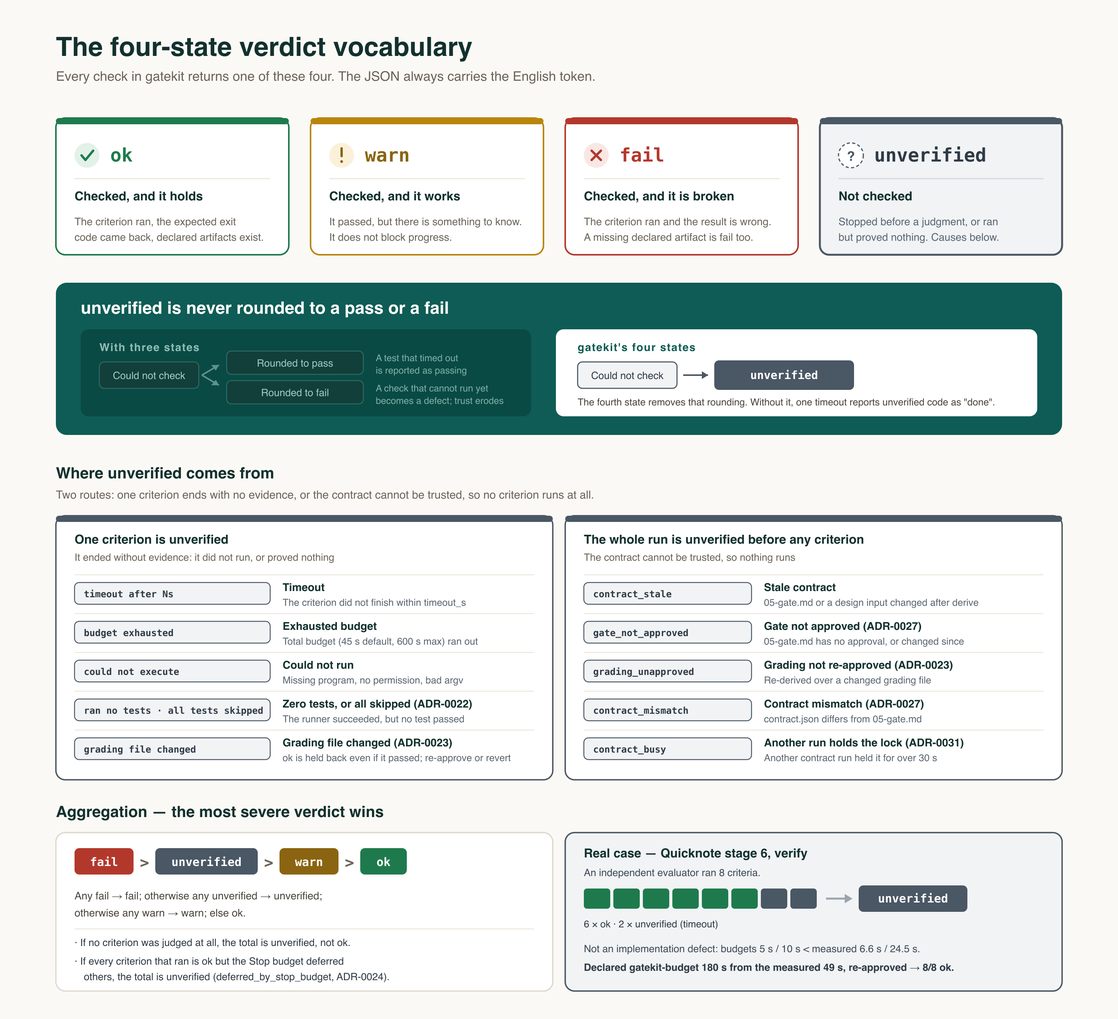
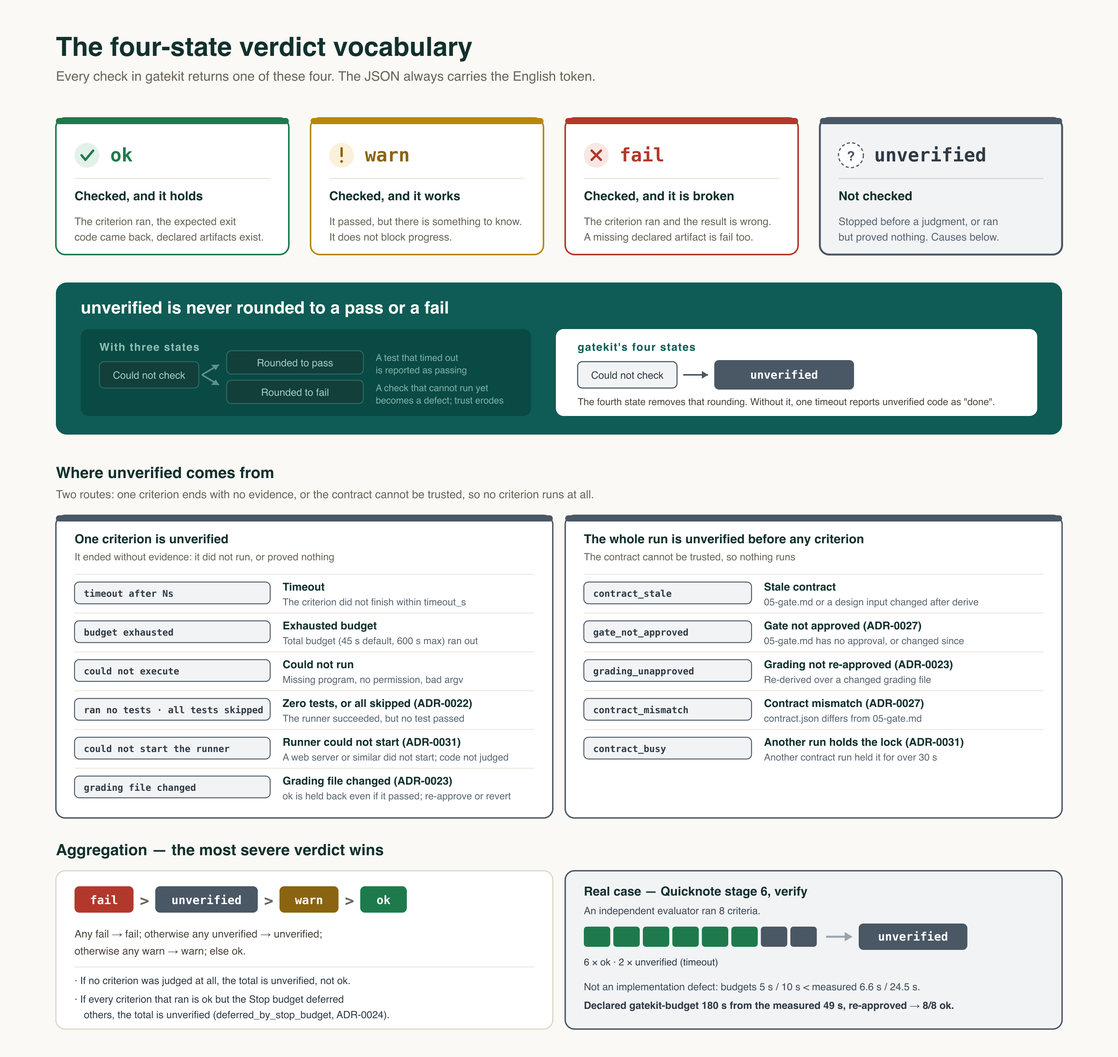
Manual: catch the overview chapters up with the code (ko + en) (#28)
ADRs that changed behaviour updated 07/08/10 but not the overview
chapters, which still described the 2026-09-10 design:
- rule (a) needs a gatekit spec file in spec/, not just the folder (ADR-0036)
- write_scope is enforced only in worker sessions; under the default host
  mode it is prompt guidance and the gates judge the result (ADR-0013)
- retry limits: 3 consecutive failures in a job, 2 identical failures on any
  path, a new jobs start refuses 2 carried failures; host fixes and re-runs
  jobs complete (ADR-0014, ADR-0021)
- only config.json and eval/** of the state dir are writable before approval
  (ADR-0027 rule (c) runs first)
- contract_busy documented in 07 and 10 (ADR-0031)
- design has no question budget; it limits itself to one question
- the Stop gate runs only while build/verify is the active pipeline, turn
  tier during build, stands down after a settled verdict (ADR-0024/0032);
  approval does not arm it
- 03-concepts and the verdicts diagram add the runner-start cause (ADR-0031)

Changed region(s): [[0.0312, 0.0312, 0.9688, 0.9688], [0.5, 0.8125, 0.9375, 0.9688]]

diff --git a/docs/manual/04-pipeline.md b/docs/manual/04-pipeline.md
@@ -68,10 +68,10 @@
 | 0 | `/gatekit:discover` | 아무것도 없어도 된다. 자유 대화 | `00-discovery.md` | `spec validate`가 확정 verdict `eliminate`/`reuse`를 `pain_verdict_blocks`로 차단. 선택 단계 |
 | 1 | `/gatekit:interview` | discovery가 고른 개선과제(있으면), 기존 레포 | `01-prd.md`, `03-architecture.md` | 자유 대화 + 도메인 리서치(`WebSearch`)로 기능을 제안, 사용자가 쳐낸다 |
 | 2 | `/gatekit:mockup` | Figma URL, HTML, 스크린샷, 또는 디자인 프리셋 | `02-screens.md`, `tokens.json`, 확정된 프로토타입 | 프로토타입을 사용자가 확정해야 `prototype_required`가 풀린다 |
-| 2b | `/gatekit:design` | Figma URL, 스크린샷, HTML, 라이브 사이트 URL, 프리셋 이름, 사용자 패턴 파일 | `02-design.md`, `tokens.json`(공유), 원장 gap 행 | question 게이트. `spec/tokens.json`이 있으면 `tasks`가 스타일 관련 작업에 tokens 게이트를 기본 추가 |
+| 2b | `/gatekit:design` | Figma URL, 스크린샷, HTML, 라이브 사이트 URL, 프리셋 이름, 사용자 패턴 파일 | `02-design.md`, `tokens.json`(공유), 원장 gap 행 | question 게이트는 여기서 세기만 한다. 예산은 `interview`에만 걸린다. `/gatekit:design`은 자기 지시로 `AskUserQuestion`을 최대 1회만 한다. `spec/tokens.json`이 있으면 `tasks`가 스타일 관련 작업에 tokens 게이트를 기본 추가 |
 | 3 | `/gatekit:tasks` | `01`, `02`, `02-design`, `03`, 실제 레포 구조 | `04-tasks.md` | `02-screens.md`에 프로토타입 확정 기록이 없으면 실행 거부 |
 | 4 | `/gatekit:gate` | `01`의 수용 기준, `04`의 작업 | `05-gate.md`, `contract.json`, 승인 | 승인이 쓰기 게이트를 연다 |
-| 5 | `/gatekit:build` | `04-tasks.md`, 승인된 `05-gate.md` | 잡 디렉터리, `PROGRESS.md` | write 게이트가 `write_scope` 강제. UI 작업은 스크린샷 산출물 요구. `build.execution`이 `host`(기본)면 이 세션이 직접 구현하고, `worker`면 태스크마다 워커를 스폰한다(ADR-0013) |
+| 5 | `/gatekit:build` | `04-tasks.md`, 승인된 `05-gate.md` | 잡 디렉터리, `PROGRESS.md` | `build.execution`이 `host`(기본)면 이 세션이 직접 구현하고, `write_scope`는 각 태스크 프롬프트의 안내일 뿐 기계적으로 강제하는 것이 없다. 결과는 여전히 태스크 게이트와 Stop 게이트가 판정한다. 워커 세션(`build.execution: worker`, `--backend`, 또는 워커에 넘긴 라운드)에서는 write 게이트가 `write_scope`를 강제한다(ADR-0013). UI 작업은 스크린샷 산출물 요구 |
 | 6 | `/gatekit:verify` | `contract.json`, `05-gate.md` | 판정표(코드 기준 + `-visual`), `PROGRESS.md` 마지막 검증 | spawn 게이트가 평가자 범위 검사, stop 게이트가 계약 실행 |
 
 `doctor`와 `setup`은 이 순서에 속하지 않는다. `setup`은 프로젝트 최초 1회, `doctor`는 문제가 의심될 때 언제든 실행한다.
@@ -82,26 +82,26 @@
 
 ### 1단계 이전
 
-`spec/` 디렉터리가 아직 없으면 쓰기 게이트는 아무것도 막지 않는다. 규칙 (a)는 `spec/`이 존재할 때만 발동한다.
+`spec/`에 gatekit 스펙 파일이 하나도 없으면 쓰기 게이트 규칙 (a)는 아무것도 막지 않는다. 규칙 (c) 보호 상태만 적용된다. RSpec 프로젝트의 `spec/`이나 빈 `spec/`은 치지 않는다. 규칙 (a)는 `spec/`에 `00-discovery.md`나 `01-prd.md` 같은 gatekit 스펙 파일이 하나라도 생기면 발동한다(ADR-0036).
 
 ### 1~3단계 중
 
-`spec/`이 생겼고 `05-gate.md`가 승인되지 않았으므로, 쓰기 게이트가 소스 파일 수정을 거부한다. `spec/**`, `.gatekit/**`, `docs/**`, `README*`, 루트의 `*.md`만 쓸 수 있다. 이 허용 목록이 없으면 게이트를 열어줄 스펙 자체를 쓸 수 없다.
+`spec/`에 gatekit 스펙 파일이 생겼고 `05-gate.md`가 승인되지 않았으므로, 쓰기 게이트가 소스 파일 수정을 거부한다. `spec/**`, `.gatekit/**`, `docs/**`, `README*`, 루트의 `*.md`만 쓸 수 있다. 규칙 (c)를 먼저 보므로 `.gatekit/**` 중에서는 `config.json`과 `eval/**`만 쓸 수 있다. 이 허용 목록이 없으면 게이트를 열어줄 스펙 자체를 쓸 수 없다.
 
 ### 4단계 승인 시점
 
-사용자가 `05-gate.md`를 읽고 승인하면 해시가 고정된다. 그 순간부터 쓰기 게이트 규칙 (a)가 통과되어 소스 파일을 쓸 수 있다. 동시에 Stop 게이트가 이 계약을 실행 대상으로 삼는다.
+사용자가 `05-gate.md`를 읽고 승인하면 해시가 고정된다. 그 순간부터 쓰기 게이트 규칙 (a)가 통과되어 소스 파일을 쓸 수 있다. 승인이 Stop 게이트를 무장시키지는 않는다. 그것은 `/gatekit:build`나 `/gatekit:verify`가 활성 파이프라인이 될 때만 일어난다(아래).
 
 ### 5단계 중
 
-워커 세션에는 `GATEKIT_TASK_ID`가 설정되어 있고, 쓰기 게이트 규칙 (b)가 발동한다. 규칙 (b)는 (a)보다 엄격해서 문서 허용 목록이 없다. `src/auth/**`를 배정받은 워커는 PRD를 고칠 수 없다.
+`build.execution: host`(기본)에서는 이 세션이 태스크를 구현하고 `GATEKIT_TASK_ID`가 설정되지 않으므로 규칙 (b)가 발동하지 않는다. 각 태스크의 `write_scope`는 프롬프트의 안내일 뿐 기계적으로 강제하는 것이 없다. 결과는 여전히 태스크 게이트와 Stop 게이트가 판정한다. 워커 세션 — `build.execution: worker`, `--backend`, 또는 워커에 넘긴 라운드 — 에는 `GATEKIT_TASK_ID`가 설정되어 있고, 쓰기 게이트 규칙 (b)가 발동한다. 규칙 (b)는 (a)보다 엄격해서 문서 허용 목록이 없다. `src/auth/**`를 배정받은 워커는 PRD를 고칠 수 없다.
 
 ### 6단계와 종료
 
-`build`가 전부 `passed`여도 완료 계약 통과와는 다르다. `verify`만 그것을 보고한다. 세션을 끝내려 하면 Stop 게이트가 계약을 실행하고, `fail`이나 `unverified`가 있으면 최대 3회까지 종료를 막는다.
+`build`가 전부 `passed`여도 완료 계약 통과와는 다르다. `verify`만 그것을 보고한다. Stop 게이트는 `/gatekit:build`나 `/gatekit:verify`가 활성 파이프라인인 동안에만 턴 끝마다 계약을 실행한다 — 커맨드를 직접 입력했거나, 커맨드가 `Skill` 도구로 시작될 때 skill 게이트가 설정한 경우다(ADR-0032). `build`에서는 `turn` 등급 기준만 `stop.budget_s` 안에서 실행하고, `verify`에서는 모든 기준을 실행한다. `fail`이나 `unverified`가 있으면 최대 3회까지 턴 종료를 막는다. 끝난 build나 verify의 판정이 기록되면, 두 커맨드 중 하나가 다시 무장시킬 때까지 물러난다(7장).
 
 ## 되돌아가는 경로
 
 - `05-gate.md`를 고치면 승인이 만료되고 계약이 stale이 된다. `contract derive` 후 다시 승인해야 한다.
-- 태스크가 3회 연속 실패하면 `build`는 재위임을 멈추고 `spec/RECOVERY.md`에 진단을 쓴 뒤 파이프라인을 정지한다. 코드를 직접 고치지 않는다.
+- 실패한 태스크는 다시 시도한다. `host`에서는 이 세션이 코드를 직접 고치고 `jobs complete`를 다시 부르고, `worker`에서는 `jobs redelegate`를 쓴다. 한 잡 안에서 태스크는 연속 3회 실패(1 + `build.max_retries`, 기본 2)에서 멈추고, 어느 경로든 똑같은 실패가 연속 2회면 멈춘다. 새 `jobs start`도 이미 연속 2회 실패를 안고 있는 태스크는 거부한다. 거부는 종료 코드 3이다. 그러면 세션이 `spec/RECOVERY.md`에 진단을 쓰고 파이프라인을 정지한다. 원인을 고친 뒤 `jobs start --force-retry <task_id>`가 카운트를 지운다.
 - `verify`가 `ok`가 아니면 무엇이 바뀌어야 하는지 나열하고 멈춘다. 수정은 `/gatekit:build`로 되돌린다.

diff --git a/docs/manual/en/04-pipeline.md b/docs/manual/en/04-pipeline.md
@@ -72,10 +72,10 @@
 | 0 | `/gatekit:discover` | Nothing is needed. Free conversation | `00-discovery.md` | `spec validate` blocks a confirmed verdict of `eliminate`/`reuse` as `pain_verdict_blocks`. Optional stage |
 | 1 | `/gatekit:interview` | The improvement opportunity discovery chose (if any), the existing repo | `01-prd.md`, `03-architecture.md` | Free conversation plus domain research (`WebSearch`) proposes features, and the user prunes them |
 | 2 | `/gatekit:mockup` | A Figma URL, HTML, screenshots, or a design preset | `02-screens.md`, `tokens.json`, the confirmed prototype | `prototype_required` clears only when the user confirms the prototype |
-| 2b | `/gatekit:design` | A Figma URL, screenshots, HTML, a live site URL, a preset name, a user pattern file | `02-design.md`, `tokens.json` (shared), ledger gap rows | The question gate. If `spec/tokens.json` exists, `tasks` adds a tokens gate to style-related tasks by default |
+| 2b | `/gatekit:design` | A Figma URL, screenshots, HTML, a live site URL, a preset name, a user pattern file | `02-design.md`, `tokens.json` (shared), ledger gap rows | The question gate only counts here; its budget covers `interview` alone. `/gatekit:design` asks at most one `AskUserQuestion` by its own instruction. If `spec/tokens.json` exists, `tasks` adds a tokens gate to style-related tasks by default |
 | 3 | `/gatekit:tasks` | `01`, `02`, `02-design`, `03`, the actual repo structure | `04-tasks.md` | Refuses to run if `02-screens.md` has no prototype confirmation record |
 | 4 | `/gatekit:gate` | The acceptance criteria in `01`, the tasks in `04` | `05-gate.md`, `contract.json`, approval | Approval opens the write gate |
-| 5 | `/gatekit:build` | `04-tasks.md`, the approved `05-gate.md` | The job directory, `PROGRESS.md` | The write gate enforces `write_scope`. UI tasks require a screenshot artifact. If `build.execution` is `host` (the default), this session implements the tasks itself; if `worker`, a worker is spawned per task (ADR-0013) |
+| 5 | `/gatekit:build` | `04-tasks.md`, the approved `05-gate.md` | The job directory, `PROGRESS.md` | If `build.execution` is `host` (the default), this session implements the tasks itself and `write_scope` is guidance in each task's prompt — nothing enforces it mechanically; the task gates and the Stop gate still judge the result. In a worker session (`build.execution: worker`, `--backend`, or a round handed to workers) the write gate enforces `write_scope` (ADR-0013). UI tasks require a screenshot artifact |
 | 6 | `/gatekit:verify` | `contract.json`, `05-gate.md` | The verdict table (code criteria + `-visual`), the last verification in `PROGRESS.md` | The spawn gate checks the evaluator's scope; the stop gate runs the contract |
 
 `doctor` and `setup` are not part of this sequence. Run `setup` once per project, and `doctor` any time you suspect a problem.
@@ -86,26 +86,26 @@ Unlike the other stages in this table, `/gatekit:design` has no fixed place in t
 
 ### Before stage 1
 
-While there is no `spec/` directory yet, the write gate blocks nothing. Rule (a) fires only when `spec/` exists.
+While `spec/` holds none of gatekit's spec files, write gate rule (a) blocks nothing; only rule (c), protected state, applies. An RSpec project's `spec/` or an empty `spec/` does not count. Rule (a) fires once `spec/` holds one of gatekit's spec files, such as `00-discovery.md` or `01-prd.md` (ADR-0036).
 
 ### During stages 1 to 3
 
-`spec/` now exists and `05-gate.md` is not approved, so the write gate refuses edits to source files. Only `spec/**`, `.gatekit/**`, `docs/**`, `README*` and `*.md` at the root can be written. Without this allowlist, you could not write the very spec that opens the gate.
+`spec/` now holds gatekit's spec files and `05-gate.md` is not approved, so the write gate refuses edits to source files. Only `spec/**`, `.gatekit/**`, `docs/**`, `README*` and `*.md` at the root can be written. Rule (c) is checked first, so of `.gatekit/**` only `config.json` and `eval/**` are writable. Without this allowlist, you could not write the very spec that opens the gate.
 
 ### At the stage 4 approval
 
-When the user reads and approves `05-gate.md`, its hash is pinned. From that moment, write gate rule (a) passes and source files can be written. At the same time, the Stop gate takes this contract as the thing it runs.
+When the user reads and approves `05-gate.md`, its hash is pinned. From that moment, write gate rule (a) passes and source files can be written. Approval does not arm the Stop gate; that happens only when `/gatekit:build` or `/gatekit:verify` becomes the active pipeline (below).
 
 ### During stage 5
 
-A worker session has `GATEKIT_TASK_ID` set, and write gate rule (b) fires. Rule (b) is stricter than (a): it has no documentation allowlist. A worker assigned `src/auth/**` cannot edit the PRD.
+Under `build.execution: host` (the default), this session implements the tasks and `GATEKIT_TASK_ID` is not set, so rule (b) does not fire: each task's `write_scope` is guidance in its prompt, and nothing enforces it mechanically. The task gates and the Stop gate still judge the result. A worker session — `build.execution: worker`, `--backend`, or a round handed to workers — has `GATEKIT_TASK_ID` set, and write gate rule (b) fires. Rule (b) is stricter than (a): it has no documentation allowlist. A worker assigned `src/auth/**` cannot edit the PRD.
 
 ### Stage 6 and the end
 
-Even if every task in `build` is `passed`, that is not the same as passing the completion contract. Only `verify` reports that. When you try to end the session, the Stop gate runs the contract, and if anything is `fail` or `unverified`, it blocks the session from ending, up to 3 times.
+Even if every task in `build` is `passed`, that is not the same as passing the completion contract. Only `verify` reports that. The Stop gate runs the contract at each turn end only while `/gatekit:build` or `/gatekit:verify` is the active pipeline — set by typing the command, or by the skill gate when the command starts through the `Skill` tool (ADR-0032). Under `build` it runs only `turn`-tier criteria, within `stop.budget_s`; under `verify` it runs every criterion. If anything is `fail` or `unverified`, it blocks the turn from ending, up to 3 times. Once a settled build or verify verdict is recorded, it stands down until one of those commands re-arms it (chapter 7).
 
 ## Paths back
 
 - Editing `05-gate.md` makes the approval stale and the contract stale. You have to run `contract derive` and approve again.
-- If a task fails 3 times in a row, `build` stops redelegating, writes a diagnosis to `spec/RECOVERY.md`, and halts the pipeline. It does not fix the code itself.
+- A failed task goes back for another attempt: under `host` this session fixes the code itself and runs `jobs complete` again; under `worker`, `jobs redelegate`. Within a job a task stops after 3 consecutive failures (1 + `build.max_retries`, default 2), and every path stops it after 2 identical failures in a row; a new `jobs start` also refuses a task that already carries 2 consecutive failures. The refusal exits with code 3. The session then writes the diagnosis into `spec/RECOVERY.md` and stops the pipeline. Once the cause is fixed, `jobs start --force-retry <task_id>` clears the count.
 - If `verify` is not `ok`, it lists what has to change and stops. Fixes go back through `/gatekit:build`.

diff --git a/docs/manual/07-gates.md b/docs/manual/07-gates.md
@@ -42,7 +42,7 @@
 
 ### 규칙 (a) 스펙 먼저
 
-`enforce_spec_before_code`가 켜져 있고 `spec/` 디렉터리가 존재하는데 `spec/05-gate.md` 승인이 `ok`가 아니면, 아래 허용 목록 밖의 쓰기를 거부한다.
+`enforce_spec_before_code`가 켜져 있고 `spec/`에 gatekit 스펙 파일이 하나라도 있는데 `spec/05-gate.md` 승인이 `ok`가 아니면, 아래 허용 목록 밖의 쓰기를 거부한다. gatekit 스펙 파일이 하나도 없는 `spec/` — RSpec 프로젝트의 `spec/`이나 빈 `spec/` — 은 치지 않는다(ADR-0036).
 
 ```text
 spec/**
@@ -52,7 +52,7 @@ README*
 *.md   (루트 레벨만)
 ```
 
-이 허용 목록이 있는 이유는 게이트를 열어줄 스펙 자체를 쓸 수 있어야 하기 때문이다.
+이 허용 목록이 있는 이유는 게이트를 열어줄 스펙 자체를 쓸 수 있어야 하기 때문이다. 목록에 `.gatekit/**`가 있지만 규칙 (c)를 먼저 보므로, 승인 전에 상태 디렉터리에서 실제로 쓸 수 있는 것은 `config.json`과 `eval/**`뿐이다.
 
 **차단됐을 때 할 일**: `/gatekit:gate`를 실행해 완료 기준을 만들고 사용자가 승인한다. 급하면 `spec/`·`docs/`·루트 마크다운에 먼저 쓴다. 차단 메시지에 현재 승인 상태(`fail` 또는 `unverified`)와 막힌 경로가 나온다.
 
@@ -79,7 +79,7 @@ README*
 
 **하는 일**: 명령 문자열을 실행하지 않고 읽어서 그 명령이 쓸 파일을 뽑아낸 뒤, 각 경로를 write 게이트와 **같은 함수**로 판정한다. 리다이렉션(`>`, `>>`, `&>`), `tee`, `sed -i`, `perl -i`, `cp`/`mv`/`ln`/`install`/`rsync`의 목적지, `touch`/`rm`/`mkdir`/`truncate`/`chmod`/`chown`의 대상, `dd of=`, 그리고 `sort -o`·`curl -o`·`wget -O`·`tar -C`/`-f`·`unzip -d`·`zip`처럼 출력 경로가 인자에 그대로 보이는 도구를 인식한다. `cd`는 `;`, `&&`, `|`, 줄바꿈을 넘어 추적하고, `VAR=`·`sudo`·`env`·`nohup` 접두는 벗기며, 히어독 본문과 `/dev/*`는 무시하고, `sh -c "…"`는 재귀로 읽는다.
 
-**규칙이 꺼져 있을 때**: 규칙 (a)·(b)가 거부할 수 없는 상태(`GATEKIT_TASK_ID` 없음, 게이트 승인됨 또는 `spec/` 없음)에서도 명령은 읽지만, 아래 보호 상태 점검만 그 결과로 판정한다. 나머지는 판정하지 않고 통과시킨다. 읽기는 정적이고 가벼워서 평소 세션이 체감할 비용은 없다.
+**규칙이 꺼져 있을 때**: 규칙 (a)·(b)가 거부할 수 없는 상태(`GATEKIT_TASK_ID` 없음, 게이트 승인됨 또는 `spec/`에 gatekit 스펙 파일 없음)에서도 명령은 읽지만, 아래 보호 상태 점검만 그 결과로 판정한다. 나머지는 판정하지 않고 통과시킨다. 읽기는 정적이고 가벼워서 평소 세션이 체감할 비용은 없다.
 
 **판별 불가는 거부**: 규칙이 살아 있는데 쓰기 대상을 알 수 없으면 거부한다. 경로 안의 `$VAR`나 백틱, 알 수 없는 디렉터리로 `cd`, `eval`, `xargs`, `patch`, `trap`, `find -exec`, 작업 트리를 바꾸는 `git` 하위 명령(`apply`, `checkout`, `restore`, `reset`, `merge`, `stash`, `init`, `clone` 등), 인라인 인터프리터 코드(`python3 -c`, `node -e`), 스크립트를 표준 입력으로 받는 인터프리터(`python3 <<PY`, `echo … | node`, `python3 < s.py` — 스크립트 파일이나 `-m 모듈`이 인자에 있으면 해당 없음), `awk`, 명령줄 편집기(`ed`, `ex`, `vim`, `nano`), `busybox`, 파일명을 스스로 정하는 다운로드(`curl -O`, 옵션 없는 `wget`), 프로세스 치환, 짝이 안 맞는 따옴표가 여기 해당한다. 거부 메시지는 이유와 대안(Write/Edit 도구, 리터럴 경로)을 말한다. `unverified`를 `ok`로 반올림하지 않는 것과 같은 원칙이다.
 
@@ -175,7 +175,7 @@ README*
 
 **차단 조건**: 계약 실행 결과에 `fail`이나 `unverified` 기준이 하나라도 있고, `block_count`가 3 미만이고, `stop_hook_active`가 참이 아닐 때. 차단 메시지에 실패한 기준 목록이 들어가고 `block_count`가 1 증가한다.
 
-계약이 stale이면 다른 메시지가 나간다. `contract derive`를 실행하고 작업을 마치라는 안내다.
+계약이 stale이면 다른 메시지가 나간다. `contract derive`를 실행하고 작업을 마치라는 안내다. 다른 계약 실행(평가자 또는 `contract run`)이 30초 동안 잠금을 쥐고 있었으면 아무것도 판정하지 않고 기록하지도 않은 `unverified`가 되고(`contract_busy`, ADR-0031), 메시지가 그렇게 알린다. 실패도 통과도 아니다 — 그 실행이 끝난 뒤 턴을 다시 마친다.
 
 **무결성 점검 (ADR-0027)**: 기준을 하나라도 실행하기 전에, 그리고 앞 판정 기록을 재사용하기 전에 세 가지를 순서대로 본다. `contract_stale`(위), `gate_not_approved`(`approve check spec/05-gate.md`가 `ok`가 아님 — 승인이 없거나, 승인 뒤 파일이 바뀌었거나, 고정한 채점 파일이 계약과 다름), `contract_mismatch`(`05-gate.md`를 메모리에서 다시 파싱한 결과가 `contract.json`과 기준 필드·순서·예산 중 하나라도 다름). 어느 하나라도 걸리면 기준 없이 `unverified`이고, 다른 `unverified`처럼 차단한다. `contract run`도 같은 점검을 한다(`contract baseline`은 승인 전에 돌기 때문에 승인 점검만 뺀다). 판정 기록 `runs/contract-last.json`에는 그때의 `contract.json` 해시(`contract_sha256`)가 함께 남고, 해시가 다르거나 없으면 재사용하지 않는다.
 

diff --git a/docs/manual/en/07-gates.md b/docs/manual/en/07-gates.md
@@ -42,7 +42,7 @@ This rule exists because hand-writing the approval record, or the verdict record
 
 ### Rule (a) spec first
 
-If `enforce_spec_before_code` is on, the `spec/` directory exists, and the approval of `spec/05-gate.md` is not `ok`, writes outside the allowlist below are refused.
+If `enforce_spec_before_code` is on, `spec/` holds one of gatekit's spec files, and the approval of `spec/05-gate.md` is not `ok`, writes outside the allowlist below are refused. A `spec/` that holds none of gatekit's spec files — an RSpec project's `spec/`, or an empty one — does not count (ADR-0036).
 
 ```text
 spec/**
@@ -52,7 +52,7 @@ README*
 *.md   (root level only)
 ```
 
-This allowlist exists because you must be able to write the very spec that opens the gate.
+This allowlist exists because you must be able to write the very spec that opens the gate. `.gatekit/**` is on the list, but rule (c) is checked first, so of the state directory only `config.json` and `eval/**` can actually be written before approval.
 
 **What to do when blocked**: run `/gatekit:gate` to create the completion criteria and have the user approve them. If it is urgent, write to `spec/`, `docs/`, or root-level Markdown first. The block message shows the current approval state (`fail` or `unverified`) and the blocked path.
 
@@ -79,7 +79,7 @@ If the scope cannot be checked, the write is refused. A worker that claims a tas
 
 **What it does**: it reads the command string without running it, extracts the files the command will write, and judges each path with the **same function** as the write gate. It recognizes redirection (`>`, `>>`, `&>`), `tee`, `sed -i`, `perl -i`, the destination of `cp`/`mv`/`ln`/`install`/`rsync`, the targets of `touch`/`rm`/`mkdir`/`truncate`/`chmod`/`chown`, `dd of=`, and tools whose output path appears directly in the arguments, such as `sort -o`, `curl -o`, `wget -O`, `tar -C`/`-f`, `unzip -d`, and `zip`. It tracks `cd` across `;`, `&&`, `|`, and newlines, strips `VAR=`, `sudo`, `env`, and `nohup` prefixes, ignores heredoc bodies and `/dev/*`, and reads `sh -c "…"` recursively.
 
-**When the rules are off**: in a state where rules (a) and (b) cannot refuse (no `GATEKIT_TASK_ID`, and the gate is approved or there is no `spec/`), the command is still read, but only the protected-state check below judges the result. Everything else passes without a verdict. The reading is static and light, so a normal session feels no cost.
+**When the rules are off**: in a state where rules (a) and (b) cannot refuse (no `GATEKIT_TASK_ID`, and the gate is approved or `spec/` holds no gatekit spec file), the command is still read, but only the protected-state check below judges the result. Everything else passes without a verdict. The reading is static and light, so a normal session feels no cost.
 
 **Undeterminable means refused**: when the rules are live and the write target cannot be determined, the command is refused. This covers `$VAR` or backticks inside a path, `cd` into an unknown directory, `eval`, `xargs`, `patch`, `trap`, `find -exec`, `git` subcommands that change the working tree (`apply`, `checkout`, `restore`, `reset`, `merge`, `stash`, `init`, `clone`, and so on), inline interpreter code (`python3 -c`, `node -e`), interpreters that take a script on standard input (`python3 <<PY`, `echo … | node`, `python3 < s.py` — not when a script file or `-m module` is in the arguments), `awk`, command-line editors (`ed`, `ex`, `vim`, `nano`), `busybox`, downloads that pick their own file name (`curl -O`, `wget` with no option), process substitution, and unbalanced quotes. The refusal message gives the reason and an alternative (the Write/Edit tools, a literal path). It is the same principle as never rounding `unverified` up to `ok`.
 
@@ -175,7 +175,7 @@ If the scope cannot be checked, the write is refused. A worker that claims a tas
 
 **Block condition**: the contract run has at least one `fail` or `unverified` criterion, `block_count` is below 3, and `stop_hook_active` is not true. The block message lists the failed criteria, and `block_count` goes up by 1.
 
-If the contract is stale, a different message goes out: it tells you to run `contract derive` and finish the work.
+If the contract is stale, a different message goes out: it tells you to run `contract derive` and finish the work. If another contract run (an evaluator's or a `contract run`) held the lock for 30 seconds, the result is `unverified` with nothing judged and nothing recorded (`contract_busy`, ADR-0031), and the message says so: this is neither a failure nor a pass — wait for that run to finish, then end the turn again.
 
 **Integrity check (ADR-0027)**: before running any criterion, and before reusing an earlier verdict record, it checks three things in order: `contract_stale` (above); `gate_not_approved` (`approve check spec/05-gate.md` is not `ok` — there is no approval, the file changed after approval, or a pinned grading file differs from the contract); and `contract_mismatch` (re-parsing `05-gate.md` in memory gives a result that differs from `contract.json` in any criterion field, the order, or the budget). If any one of them trips, the result is `unverified` with no criteria, and it blocks like any other `unverified`. `contract run` performs the same checks (`contract baseline` runs before approval, so it skips only the approval check). The verdict record `runs/contract-last.json` also stores the hash of the `contract.json` of that moment (`contract_sha256`); if the hash differs or is missing, the record is not reused.
 

diff --git a/docs/manual/03-concepts.md b/docs/manual/03-concepts.md
@@ -15,6 +15,8 @@ gatekit의 모든 검사는 `ok` / `warn` / `fail` / `unverified` 중 하나를 
 
 집계 규칙은 하나라도 `fail`이면 `fail`, 아니면 하나라도 `unverified`면 `unverified`, 아니면 하나라도 `warn`이면 `warn`, 그 외 `ok`다.
 
+위 그림이 `unverified`로 가는 경로를 모두 보여준다. 기준 하나가 근거 없이 끝나거나, 계약을 믿을 수 없어 기준을 하나도 돌리기 전에 실행 전체가 멈춘다.
+
 ### 왜 3개가 아니라 4개인가
 
 세 개짜리 어휘에서는 "확인하지 못했다"를 통과나 실패 중 하나로 반올림해야 한다. 통과로 반올림하면 시간 초과된 테스트가 통과로 보고된다. 실패로 반올림하면 아직 실행할 수 없는 검사가 결함으로 보고되어 신뢰를 잃는다. 네 번째 상태가 그 반올림을 없앤다.
@@ -70,7 +72,7 @@ UI가 있는 프로젝트는 `/gatekit:mockup`이 실제로 클릭 가능한 HTM
 
 `spec/05-gate.md`의 `gatekit-criterion` 펜스들을 `.gatekit/contract.json`으로 파생시킨 것이다. 각 기준은 셸 없이 실행되는 argv 리스트, 기대 종료 코드, 개별 타임아웃, 산출물 목록으로 이루어진다.
 
-`contract run`이 프로젝트 루트를 작업 디렉터리로 각 기준을 실행한다. 전체 예산은 기본 45초이며 `gatekit-budget` 펜스로 최대 600초까지 올릴 수 있다. 타임아웃이나 예산 소진은 `unverified`이고 절대 `ok`가 아니다. 테스트 러너가 테스트를 하나도 돌리지 않고 성공으로 끝난 경우도 `unverified`다(ADR-0022). 수집한 테스트가 전부 건너뛰어진(skip) 경우도 같다. 통과한 테스트가 하나도 없으면 증명한 것이 없기 때문이다. 판정 사유에는 `all tests skipped (<서명 id>; exit N)`가 남는다. 일부만 건너뛰고 나머지가 통과했으면 그대로 `ok`다. 단, 통과는 러너 출력에 보여야 한다. unittest에서 건너뛴 subTest가 통과를 가리면(`s`와 `OK (skipped=N)`만 출력) 구별할 수 없어 `unverified`다(ADR-0022 개정 A). 기준의 argv가 가리키는 채점 파일 — argv[0]로 실행하는 스크립트, 또는 테스트처럼 생긴 파일(`tests/`·`e2e/` 등의 디렉터리 안, `test_*`·`*.test.*`·`*.spec.*` 같은 이름) — 은 `contract derive` 때 해시를 남기고, `05-gate.md`를 승인할 때 그 해시도 함께 고정된다. 승인 뒤 그 파일이 바뀌거나 사라지면 통과했더라도 `unverified`이고, 다시 derive만 해서는 풀리지 않는다(`grading_unapproved`). 의도한 변경이면 `/gatekit:gate`를 다시 실행해 재승인하고, 아니면 변경을 되돌린다. `grep … src/app.py`처럼 검사 대상인 소스 파일, `spec/tokens.json`·`spec/02-design.md`처럼 최상위 `spec/` 아래의 명세 파일(이 폴더에서는 `user_spec.rb`처럼 이름이 테스트 모양인 파일만 센다), `dist/` 같은 빌드 산출물, `npm test`처럼 파일을 가리키지 않거나 디렉터리·글롭만 가리키는 명령은 이 확인을 받지 않으므로, 확인을 원하면 argv에 테스트 파일을 적는다(ADR-0023). 선언한 산출물이 없으면 `fail`이다.
+`contract run`이 프로젝트 루트를 작업 디렉터리로 각 기준을 실행한다. 전체 예산은 기본 45초이며 `gatekit-budget` 펜스로 최대 600초까지 올릴 수 있다. 타임아웃이나 예산 소진은 `unverified`이고 절대 `ok`가 아니다. 테스트 러너가 테스트를 하나도 돌리지 않고 성공으로 끝난 경우도 `unverified`다(ADR-0022). 수집한 테스트가 전부 건너뛰어진(skip) 경우도 같다. 통과한 테스트가 하나도 없으면 증명한 것이 없기 때문이다. 판정 사유에는 `all tests skipped (<서명 id>; exit N)`가 남는다. 일부만 건너뛰고 나머지가 통과했으면 그대로 `ok`다. 단, 통과는 러너 출력에 보여야 한다. unittest에서 건너뛴 subTest가 통과를 가리면(`s`와 `OK (skipped=N)`만 출력) 구별할 수 없어 `unverified`다(ADR-0022 개정 A). 러너가 필요한 것 — 이미 쓰이는 포트의 웹 서버 같은 — 을 띄우지 못한 경우도 `unverified`이고, 사유는 `could not start the runner`다. 코드는 판정되지 않았다(ADR-0031). 기준의 argv가 가리키는 채점 파일 — argv[0]로 실행하는 스크립트, 또는 테스트처럼 생긴 파일(`tests/`·`e2e/` 등의 디렉터리 안, `test_*`·`*.test.*`·`*.spec.*` 같은 이름) — 은 `contract derive` 때 해시를 남기고, `05-gate.md`를 승인할 때 그 해시도 함께 고정된다. 승인 뒤 그 파일이 바뀌거나 사라지면 통과했더라도 `unverified`이고, 다시 derive만 해서는 풀리지 않는다(`grading_unapproved`). 의도한 변경이면 `/gatekit:gate`를 다시 실행해 재승인하고, 아니면 변경을 되돌린다. `grep … src/app.py`처럼 검사 대상인 소스 파일, `spec/tokens.json`·`spec/02-design.md`처럼 최상위 `spec/` 아래의 명세 파일(이 폴더에서는 `user_spec.rb`처럼 이름이 테스트 모양인 파일만 센다), `dist/` 같은 빌드 산출물, `npm test`처럼 파일을 가리키지 않거나 디렉터리·글롭만 가리키는 명령은 이 확인을 받지 않으므로, 확인을 원하면 argv에 테스트 파일을 적는다(ADR-0023). 선언한 산출물이 없으면 `fail`이다.
 
 **이게 없으면**: "완료"가 모델의 자기 보고로만 존재한다.
 

diff --git a/docs/manual/en/03-concepts.md b/docs/manual/en/03-concepts.md
@@ -15,6 +15,8 @@ Every check in gatekit returns one of `ok` / `warn` / `fail` / `unverified`. The
 
 The aggregation rule: if any result is `fail`, the total is `fail`; otherwise, if any is `unverified`, the total is `unverified`; otherwise, if any is `warn`, the total is `warn`; otherwise it is `ok`.
 
+The diagram above lists every route to `unverified`: one criterion ends without evidence, or the contract cannot be trusted, so the whole run stops before any criterion.
+
 ### Why four and not three
 
 With a three-word vocabulary, "could not check" has to be rounded to either pass or fail. Round it to pass, and a test that timed out is reported as passing. Round it to fail, and a check that cannot run yet is reported as a defect, and trust erodes. The fourth state removes that rounding.
@@ -70,7 +72,7 @@ The numbers must match 1:1 between the inline markers and the ledger rows. `spec
 
 This is the set of `gatekit-criterion` fences in `spec/05-gate.md`, derived into `.gatekit/contract.json`. Each criterion consists of an argv list that runs without a shell, an expected exit code, its own timeout, and a list of artifacts.
 
-`contract run` runs each criterion with the project root as the working directory. The total budget is 45 seconds by default, and a `gatekit-budget` fence can raise it up to 600 seconds. A timeout or an exhausted budget is `unverified`, never `ok`. A test runner that finishes successfully without running a single test is also `unverified` (ADR-0022). The same goes for a run where every collected test was skipped. If no test passed, nothing was proven. The verdict reason records `all tests skipped (<signature id>; exit N)`. If only some tests were skipped and the rest passed, the result is `ok` as usual. The passes must be visible in the runner output, though. In unittest, when skipped subTests hide the passes (only `s` and `OK (skipped=N)` are printed), the two cannot be told apart, so the result is `unverified` (ADR-0022 amendment A). The grading files a criterion's argv points to — the script run as argv[0], or a file that looks like a test (inside a directory such as `tests/` or `e2e/`, or named like `test_*`, `*.test.*`, `*.spec.*`) — get a hash recorded at `contract derive`, and that hash is pinned together with `05-gate.md` when you approve it. If such a file changes or disappears after approval, the criterion is `unverified` even if it passed, and deriving again does not clear it (`grading_unapproved`). If the change was intended, run `/gatekit:gate` again to re-approve; otherwise, revert the change. The following do not get this check: a source file under inspection, as in `grep … src/app.py`; spec files under the top-level `spec/`, such as `spec/tokens.json` and `spec/02-design.md` (in that folder, only files with test-shaped names like `user_spec.rb` count); build output such as `dist/`; and commands that point to no file or only to a directory or glob, such as `npm test`. If you want the check, name the test file in the argv (ADR-0023). A declared artifact that is missing is `fail`.
+`contract run` runs each criterion with the project root as the working directory. The total budget is 45 seconds by default, and a `gatekit-budget` fence can raise it up to 600 seconds. A timeout or an exhausted budget is `unverified`, never `ok`. A test runner that finishes successfully without running a single test is also `unverified` (ADR-0022). The same goes for a run where every collected test was skipped. If no test passed, nothing was proven. The verdict reason records `all tests skipped (<signature id>; exit N)`. If only some tests were skipped and the rest passed, the result is `ok` as usual. The passes must be visible in the runner output, though. In unittest, when skipped subTests hide the passes (only `s` and `OK (skipped=N)` are printed), the two cannot be told apart, so the result is `unverified` (ADR-0022 amendment A). A runner that could not start what it needs — a web server on a port already in use, say — is `unverified` as well, with the reason `could not start the runner`: the code was not judged (ADR-0031). The grading files a criterion's argv points to — the script run as argv[0], or a file that looks like a test (inside a directory such as `tests/` or `e2e/`, or named like `test_*`, `*.test.*`, `*.spec.*`) — get a hash recorded at `contract derive`, and that hash is pinned together with `05-gate.md` when you approve it. If such a file changes or disappears after approval, the criterion is `unverified` even if it passed, and deriving again does not clear it (`grading_unapproved`). If the change was intended, run `/gatekit:gate` again to re-approve; otherwise, revert the change. The following do not get this check: a source file under inspection, as in `grep … src/app.py`; spec files under the top-level `spec/`, such as `spec/tokens.json` and `spec/02-design.md` (in that folder, only files with test-shaped names like `user_spec.rb` count); build output such as `dist/`; and commands that point to no file or only to a directory or glob, such as `npm test`. If you want the check, name the test file in the argv (ADR-0023). A declared artifact that is missing is `fail`.
 
 **Without it**: "done" exists only as the model's self-report.
 

diff --git a/docs/manual/en/10-troubleshooting.md b/docs/manual/en/10-troubleshooting.md
@@ -46,6 +46,7 @@ When you are blocked, the first thing to run is `/gatekit:doctor`. Seeing which 
 | `unverified` because the total budget was exceeded | The criteria add up to more than the 45-second default budget | Measure, then declare `total_budget_s` with a `gatekit-budget` fence (limit 600). Do not raise it without measuring |
 | The verdict is `unverified` with the reason `all tests skipped (…)` | Every collected test was skipped (`.skip`, `@unittest.skip`, platform conditions, and so on). The runner output shows not a single pass, so this run proved nothing (ADR-0022 amendment A). A partial skip whose output shows passes is `ok`. Exception: in unittest, if one subTest per test is skipped and only the remaining subTests pass, or if a skipped test after the passed tests leaves output ending in a newline (without `-v`), the output cannot be told apart from an all-skipped run and the verdict is `unverified`. Running with `-v` then shows the passes (except in the subTest case) | Remove the skip, or run the criterion in an environment where the test can really run. Skip per test, not inside a subTest |
 | The Stop gate blocks repeatedly | The contract has a `fail` or `unverified` criterion | Fix the cause of the criterion named in the message. After 3 blocks it stands down automatically, but the verdict is recorded as a failure |
+| The Stop gate blocks with "another contract run (an evaluator's or a `contract run`) was still in progress, so nothing was judged this time (contract_busy)" | Another contract run held `contract.lock` for 30 seconds, so this run judged nothing. The result is `unverified` and is not recorded (ADR-0031) | It is neither a failure nor a pass. Wait for the other run (an evaluator's, or a `contract run`) to finish, then end the turn again |
 | The contract runs at every turn end, and the context line says "Stop-gate budget left criteria unjudged" | Not every turn-tier criterion could start within `stop.budget_s`. With any criterion left unjudged the result is not `ok`, so the gate does not stand down | If you leave the files as they are, the following turn ends run the deferred criteria first and converge. Move slow criteria to `"tier": "verify"` or declare them last. You may also raise `stop.budget_s` after measuring |
 | The build is over, yet the contract runs at every turn end, and the context line says "build job unfinished: N tasks queued" | Tasks in a host job are left `queued`, so the job never finishes. An unfinished job is judged every turn (ADR-0024) | Carry on with the remaining tasks, or, if you are giving up, `python3 "${CLAUDE_PLUGIN_ROOT}/bin/gatekit.py" jobs stop`. Stopped tasks are recorded as `fail`, and the gate stands down after the hand-off check |
 | An e2e test sees the wrong screen and fails | `reuseExistingServer: true`, and another project's server holds the same port, so the test runs against that app | Axis 3 of `/gatekit:doctor` names the port and the process (ADR-0026). Stop that server or change the port in `playwright.config` |

diff --git a/docs/manual/en/05-commands.md b/docs/manual/en/05-commands.md
@@ -137,7 +137,7 @@ Then **it shows the whole list as a table and asks for approval.** You have one 
 
 **When it blocks**:
 
-- **A task failed** → retry it (`jobs redelegate <task_id>`). The failed gate's output is attached automatically to the next attempt's prompt.
+- **A task failed** → in the default `host` mode, this session fixes the code and runs `jobs complete <task_id>` again; with workers, retry it (`jobs redelegate <task_id>`), and the failed gate's output is attached automatically to the next attempt's prompt.
 - **The gate command itself is wrong** → fix `spec/04-tasks.md`, then, instead of retrying, run `jobs recheck` to re-run only the fixed gates. If the code is already right, it finishes in seconds.
 - **The same task keeps failing** → at 3 in a row (the default), it stops automatically and leaves a diagnosis in `spec/RECOVERY.md`. This counter does not reset when you start a new job, so once you have fixed the cause, reset just that task with `jobs start --force-retry <task_id>`. In the default mode where this session implements the tasks, `jobs complete` also stops at the same limit with exit 3.
 - **The same task failed the same way twice** → it stops with exit 3 even if retries remain. If the gate output is the same (ignoring times, durations and the like), trying again unchanged will not converge: if the gate is wrong, fix it and run `jobs recheck`; if the instructions are wrong, fix the task.

diff --git a/docs/manual/05-commands.md b/docs/manual/05-commands.md
@@ -137,7 +137,7 @@
 
 **막히면**:
 
-- **작업이 실패했다** → 재시도(`jobs redelegate <작업id>`)한다. 실패한 게이트의 출력이 다음 시도 프롬프트에 자동으로 붙는다.
+- **작업이 실패했다** → 기본 `host` 모드에서는 이 세션이 코드를 고치고 `jobs complete <작업id>`를 다시 부른다. 워커를 쓰면 재시도(`jobs redelegate <작업id>`)하고, 실패한 게이트의 출력이 다음 시도 프롬프트에 자동으로 붙는다.
 - **게이트 명령 자체가 틀렸다** → `spec/04-tasks.md`를 고친 뒤, 재시도 말고 `jobs recheck`로 고친 게이트만 다시 돌린다. 코드가 이미 맞다면 몇 초 만에 끝난다.
 - **같은 작업이 계속 실패한다** → 연속 3회(기본값)에서 자동으로 멈추고 `spec/RECOVERY.md`에 진단을 남긴다. 이 카운터는 새 작업을 시작해도 리셋되지 않으므로, 원인을 고쳤다면 `jobs start --force-retry <작업id>`로 그 작업만 초기화한다. 직접 구현하는 기본 모드의 `jobs complete`도 같은 한도에서 exit 3으로 멈춘다.
 - **같은 작업이 똑같이 두 번 실패했다** → 재시도가 남아 있어도 exit 3으로 멈춘다. 게이트 출력(시각·소요 시간 등은 무시)이 같다면 그대로 다시 해도 수렴하지 않으므로, 게이트가 틀렸으면 고친 뒤 `jobs recheck`, 지시가 틀렸으면 작업을 고친다.
